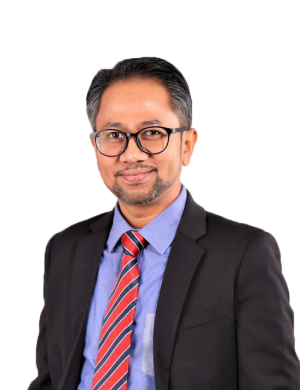
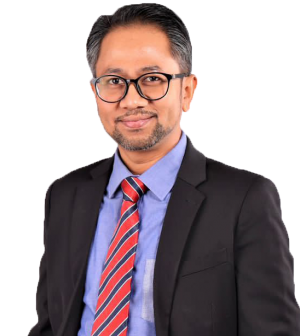
image size and alignment

diff --git a/index.html b/index.html
@@ -219,7 +219,7 @@
 					<div class="carousel-testimony owl-carousel">
 						<div class="item">
 							<div class="speaker">
-								<img src="images/2 YBM KPT.webp" class="img-fluid" alt="Colorlib HTML5 Template">
+								<img src="images/2 YBM KPT.webp" class="img-fluid" alt="Colorlib HTML5 Template" style="width: auto; height: 100%">
 								<div class="text text-center py-3">
 									<h3>YB Dato' Seri Diraja Dr. Zambry Abd Kadir</h3>
 									<span class="position">Menteri Pendidikan Tinggi</span>
@@ -236,7 +236,7 @@
 
 						<div class="item">
 							<div class="speaker">
-								<img src="images/2 KP KPT.png" class="img-fluid" alt="Colorlib HTML5 Template">
+								<img src="images/2 KP KPT.png" class="img-fluid" alt="Colorlib HTML5 Template" style="height: 30%;">
 								<div class="text text-center py-3">
 									<h3>YBrs. Prof. Dr. Azlinda binti Azman</h3>
 									<span class="position">Ketua Pengarah Pendidikan Tinggi</span>
@@ -254,7 +254,7 @@
 						<div class="item">
 							<div class="speaker">
 								<img src="images/2 P BHEP.png" class="img-fluid" alt="Colorlib HTML5 Template"
-									style="width: auto; height: 50%;">
+									style="height: 50%;">
 								<div class="text text-center py-3">
 									<h3>Encik Hirman bin Awang @ Semail</h3>
 									<span class="position">Pengarah Bahagian Hal Ehwal Pelajar</span>
@@ -287,8 +287,8 @@
 				<div class="col-md-3 ftco-animate">
 					<div class="work-entry">
 						<div class="text d-flex justify-content-center align-items-center">
-							<div class="p-3">
-								<img src="images/IMG_4827.PNG" class="img-fluid" alt="Colorlib HTML5 Template">
+							<div class="p-3" style="justify-content: center; align-items: center;">
+								<img src="images/IMG_4827.PNG" class="img-fluid" alt="MAKLUM">
 							</div>
 						</div>
 					</div>
@@ -297,7 +297,7 @@
 					<div class="work-entry">
 						<div class="text d-flex justify-content-center align-items-center">
 							<div class="p-3">
-								<img src="images/IMG_4829.PNG" class="img-fluid" alt="Colorlib HTML5 Template">
+								<img src="images/IMG_4829.PNG" class="img-fluid" alt="KPN Sukarelawan Siswa">
 							</div>
 						</div>
 					</div>
@@ -359,7 +359,7 @@
 			<div class="row justify-content-center mb-5 pb-3">
 				<div class="col-md-7 text-center heading-section ftco-animate">
 					<h2 class="mb-2">Participating Univeristies</h2>
-					<img src="images/Logo-KPT.png" class="img-fluid" alt="Colorlib HTML5 Template"
+					<img src="images/Logo-KPT.png" class="img-fluid" alt="Logo-KPT"
 						style="width: 50%; height: auto;">
 				</div>
 			</div>
@@ -367,8 +367,8 @@
 				<div class="col-md-2 mb-3 ftco-animate">
 					<div class="work-entry">
 						<div class="text d-flex justify-content-center align-items-center">
-							<div class="p-2">
-								<img src="images/Logo-UUM.png" class="img-fluid" alt="Colorlib HTML5 Template">
+							<div class="p-2 ">
+								<img src="images/Logo-UUM.png" class="img-fluid" alt="Logo-UUM">
 							</div>
 						</div>
 					</div>
@@ -377,8 +377,8 @@
 				<div class="col-md-2 mb-3 ftco-animate">
 					<div class="work-entry">
 						<div class="text d-flex justify-content-center align-items-center">
-							<div class="p-2">
-								<img src="images/Logo-UIAM.png" class="img-fluid" alt="Colorlib HTML5 Template">
+							<div class="p-2 mt-2">
+								<img src="images/Logo-UIAM.png" class="img-fluid" alt="Logo-UIAM">
 							</div>
 						</div>
 					</div>
@@ -386,7 +386,7 @@
 				<div class="col-md-2 mb-3 ftco-animate">
 					<div class="work-entry">
 						<div class="text d-flex justify-content-center align-items-center">
-							<div class="p-2">
+							<div class="p-2 mt-2">
 								<img src="images/Logo-UiTM.png" class="img-fluid" alt="Colorlib HTML5 Template">
 							</div>
 						</div>
@@ -401,11 +401,20 @@
 						</div>
 					</div>
 				</div>
-				<div class="col-md-2 mb-3 ftco-animate">
+				<div class="col-md-2 ftco-animate">
 					<div class="work-entry">
 						<div class="text d-flex justify-content-center align-items-center">
-							<div class="p-2">
-								<img src="images/Logo-UM.png" class="img-fluid" alt="Colorlib HTML5 Template">
+							<div>
+								<img src="images/Logo-UM.png" class="img-fluid" alt="Colorlib HTML5 Template" style="max-height: max-content;">
+							</div>
+						</div>
+					</div>
+				</div>
+				<div class="col-md-2 ftco-animate">
+					<div class="work-entry">
+						<div class="text d-flex justify-content-center align-items-center">
+							<div>
+								<img src="images/Logo-UMK.png" class="img-fluid" alt="Logo-UMK" style="max-height: 150px;">
 							</div>
 						</div>
 					</div>
@@ -414,8 +423,7 @@
 					<div class="work-entry">
 						<div class="text d-flex justify-content-center align-items-center">
 							<div class="p-2">
-								<img src="images/Logo-UMK.png" class="img-fluid" alt="Colorlib HTML5 Template"
-									style="max-height: 150px;">
+								<img src="images/logo-umpsa.png" class="img-fluid" alt="logo-umpsa">
 							</div>
 						</div>
 					</div>
@@ -423,16 +431,7 @@
 				<div class="col-md-2 mb-3 ftco-animate">
 					<div class="work-entry">
 						<div class="text d-flex justify-content-center align-items-center">
-							<div class="p-2">
-								<img src="images/Logo-UMP.png" class="img-fluid" alt="Colorlib HTML5 Template">
-							</div>
-						</div>
-					</div>
-				</div>
-				<div class="col-md-2 mb-3 ftco-animate">
-					<div class="work-entry">
-						<div class="text d-flex justify-content-center align-items-center">
-							<div class="p-2">
+							<div class="p-2 mt-4">
 								<img src="images/Logo-UMS.png" class="img-fluid" alt="Colorlib HTML5 Template">
 							</div>
 						</div>
@@ -450,7 +449,7 @@
 				<div class="col-md-2 mb-3 ftco-animate">
 					<div class="work-entry">
 						<div class="text d-flex justify-content-center align-items-center">
-							<div class="p-2">
+							<div class="p-2 mt-1">
 								<img src="images/Logo-UNIMAP.png" class="img-fluid" alt="Colorlib HTML5 Template">
 							</div>
 						</div>
@@ -459,7 +458,7 @@
 				<div class="col-md-2 mb-3 ftco-animate">
 					<div class="work-entry">
 						<div class="text d-flex justify-content-center align-items-center">
-							<div class="p-2">
+							<div class="p-2 mt-3">
 								<img src="images/Logo-UNIMAS.png" class="img-fluid" alt="Colorlib HTML5 Template">
 							</div>
 						</div>
@@ -468,7 +467,7 @@
 				<div class="col-md-2 mb-3 ftco-animate">
 					<div class="work-entry">
 						<div class="text d-flex justify-content-center align-items-center">
-							<div class="p-2">
+							<div class="p-2 mt-4">
 								<img src="images/Logo-UNiSZA.png" class="img-fluid" alt="Colorlib HTML5 Template">
 							</div>
 						</div>
@@ -477,7 +476,7 @@
 				<div class="col-md-2 mb-3 ftco-animate">
 					<div class="work-entry">
 						<div class="text d-flex justify-content-center align-items-center">
-							<div class="p-2">
+							<div class="p-2 mt-3">
 								<img src="images/Logo-UPM.png" class="img-fluid" alt="Colorlib HTML5 Template">
 							</div>
 						</div>
@@ -495,7 +494,7 @@
 				<div class="col-md-2 mb-3 ftco-animate">
 					<div class="work-entry">
 						<div class="text d-flex justify-content-center align-items-center">
-							<div class="p-2">
+							<div class="p-2 mt-3">
 								<img src="images/Logo-UPSI.png" class="img-fluid" alt="Colorlib HTML5 Template">
 							</div>
 						</div>
@@ -504,7 +503,7 @@
 				<div class="col-md-2 mb-3 ftco-animate">
 					<div class="work-entry">
 						<div class="text d-flex justify-content-center align-items-center">
-							<div class="p-2">
+							<div class="p-2 mt-3">
 								<img src="images/Logo-USIM.png" class="img-fluid" alt="Colorlib HTML5 Template">
 							</div>
 						</div>
@@ -513,7 +512,7 @@
 				<div class="col-md-2 mb-3 ftco-animate">
 					<div class="work-entry">
 						<div class="text d-flex justify-content-center align-items-center">
-							<div class="p-2">
+							<div class="p-2 mt-2">
 								<img src="images/Logo-USM.png" class="img-fluid" alt="Colorlib HTML5 Template">
 							</div>
 						</div>
@@ -522,7 +521,7 @@
 				<div class="col-md-2 mb-3 ftco-animate">
 					<div class="work-entry">
 						<div class="text d-flex justify-content-center align-items-center">
-							<div class="p-2">
+							<div class="p-2 mt-3">
 								<img src="images/Logo-UTeM.png" class="img-fluid" alt="Colorlib HTML5 Template">
 							</div>
 						</div>
@@ -531,7 +530,7 @@
 				<div class="col-md-2 mb-3 ftco-animate">
 					<div class="work-entry">
 						<div class="text d-flex justify-content-center align-items-center">
-							<div class="p-2">
+							<div class="p-2 mt-2">
 								<img src="images/Logo-UTHM.png" class="img-fluid" alt="Colorlib HTML5 Template">
 							</div>
 						</div>
